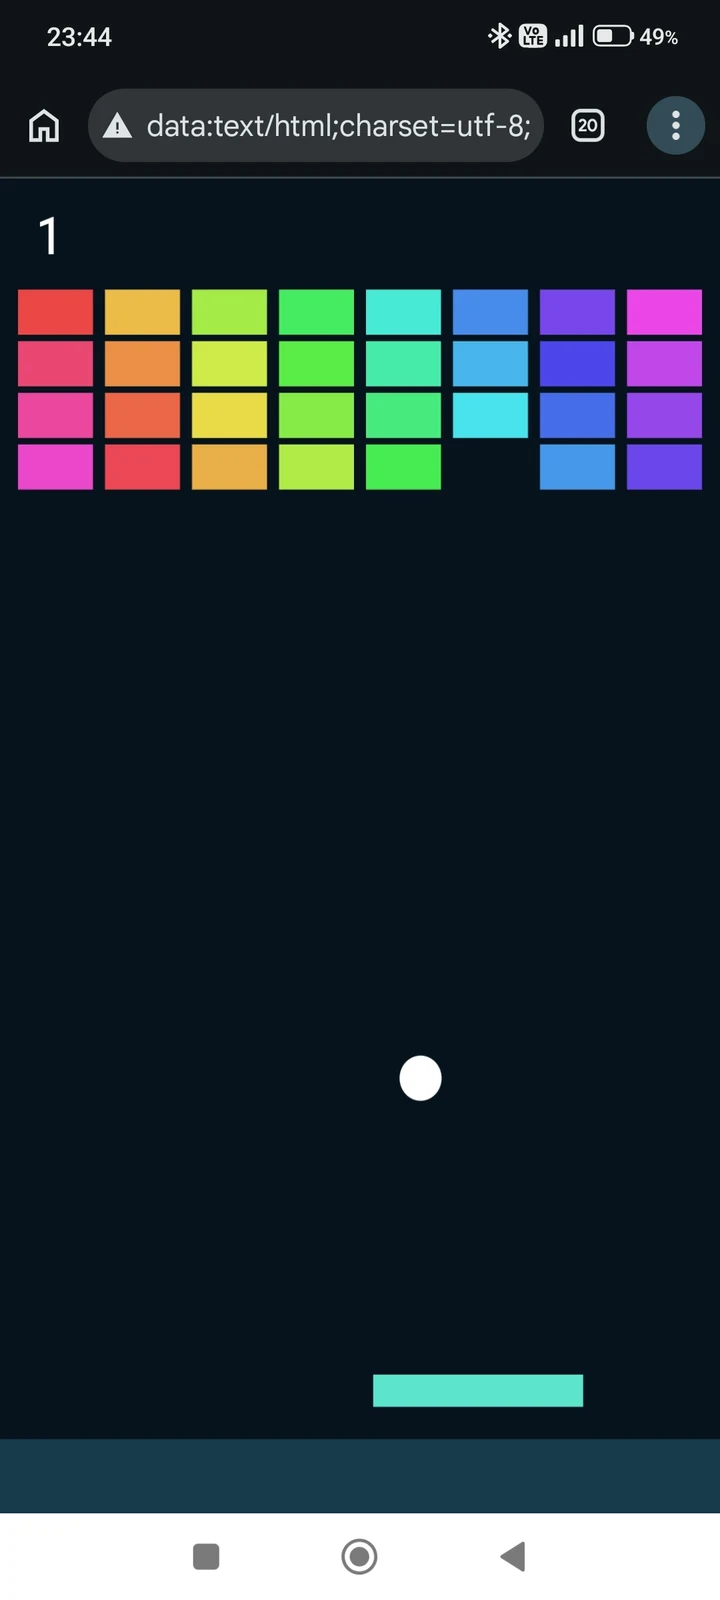
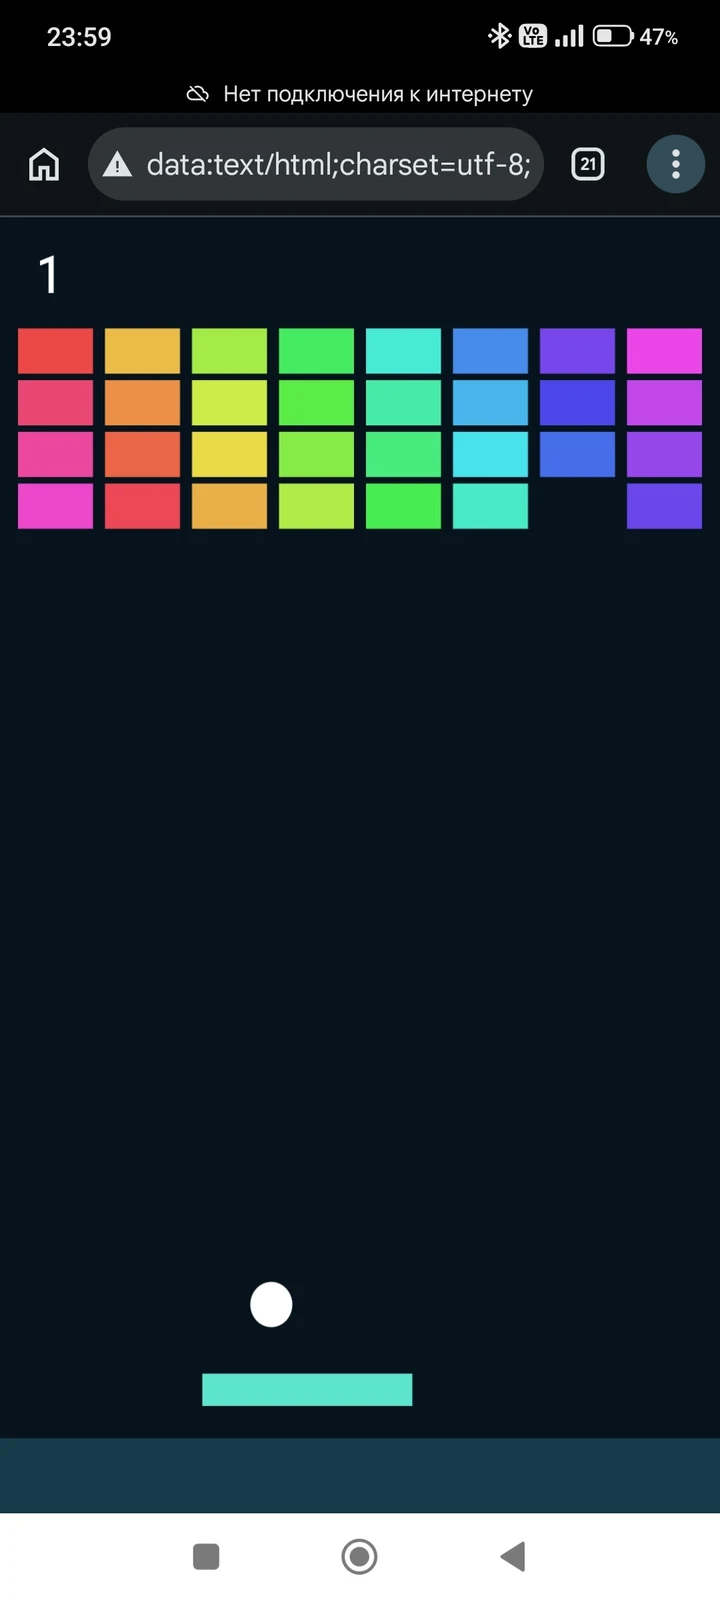
Обновил материалы испытания Redmi Note 13 Pro

diff --git a/docs/device-testing-ru.md b/docs/device-testing-ru.md
@@ -42,7 +42,7 @@
   </tr>
 </table>
 
-Скриншоты сделаны из сохранённой вкладки после ранее выполненного распознавания QR-кода и относятся к той же серии наблюдений. Они подтверждают работу приложения из `data:` URL без подключения к Интернету, но не документируют повторное сканирование QR-кода.
+Скриншоты нового испытания фиксируют запуск приложения из `data:` URL без подключения к Интернету и результат взаимодействия с ним. Перед запуском QR-код был повторно распознан штатным приложением «Фото» по сценарию, указанному в таблице.
 
 > В этой серии отрицательный результат штатных камер получен на Redmi Note 8 Pro и Redmi Note 6 Pro, работавших под управлением более ранних версий Android и MIUI. Сторонние сканеры на тех же телефонах сработали. Имеющаяся выборка не позволяет отдельно оценить влияние аппаратной части, версии ПО и приложения-сканера.
 
